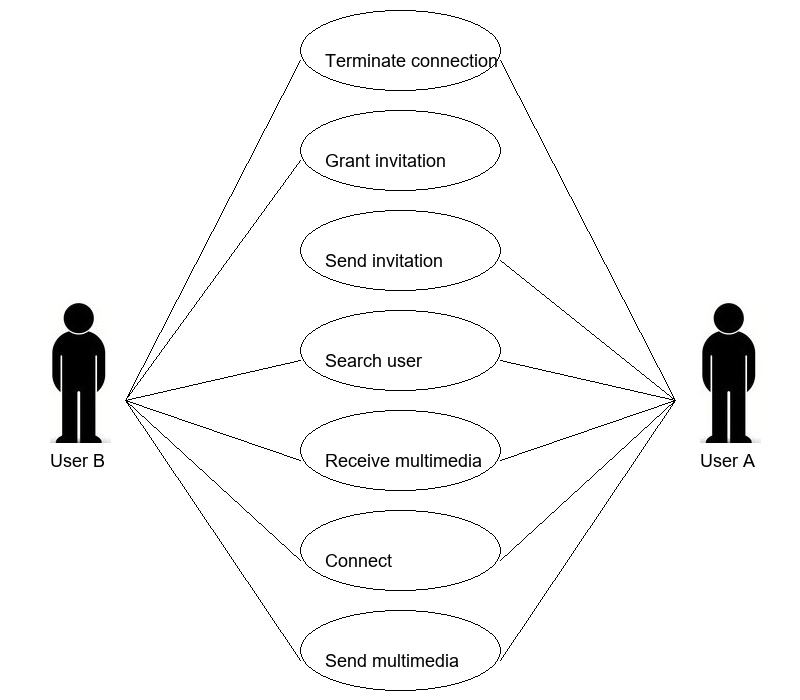
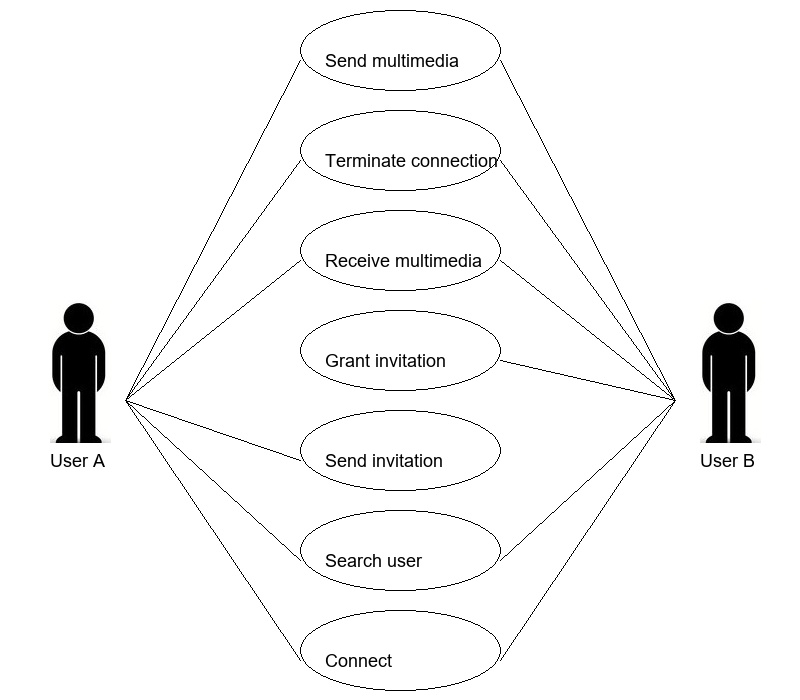
updated the algorithm

diff --git a/templates/index.html b/templates/index.html
@@ -117,7 +117,7 @@
             {% if show[5] == 1 %}
             <div class="block" id="diagram" >
                 <label class="main">UML Diagram</label><br><br>     
-                <img src="{{url_for('static', filename='pillow_imagedraw.jpg')}}" style="width:100%; height:700px;" > 
+                <img src="{{url_for('static', filename='pillow_imagedraw.jpg')}}" style="width:100%; height:900px;" > 
             </div>
             {% endif %}
             <br>
@@ -125,132 +125,6 @@
         </div>
     </div>
 </form>
-
-<!--
-    <div class="col" style="margin:80px;text-align:center;" >
-        <div class="col button"><a href="generate.html"><button >Generate</button></a></div>
-</div>
-
-
-    <div class="row " style="margin:20px;">
-        <div class="col-sm-2 block" >
-                <div class="col button"><button>Text tokenisation</button></div>
-        </div>
-        <div class="col-sm-10">
-            <div class="block">
-                <label for="Text tokenisation">Result after tokenisation</label><br><br>
-                <div class="col">
-                    <textarea name = "Text tokenisation" form = "id" rows = "10" ></textarea><br><br>
-                </div>                               
-                    
-            </div>
-        </div>
-    </div>
-
-    <div class="row " style="margin:20px;">
-        <div class="col-sm-2 block" >
-                <div class="col button"><button>Other steps</button></div>            
-        </div>
-        <div class="col-sm-10">
-            <div class="block">
-                <label for="steps">other steps</label><br><br>
-                <div class="col">
-                    <textarea name = "other steps" form = "id" rows = "10" placeholder="other steps" ></textarea><br><br>
-                </div>                               
-                    
-            </div>
-        </div>
-    </div>
-
-
-    <div class="row " style="margin:20px;">
-        
-    </div>
-
-    <div class="row " style="margin:20px;">
-        <div class="col-sm-2 block" >
-                <div class="col button"><button>Text tokenisation</button></div>
-        </div>
-        <div class="col-sm-10">
-            <div class="block">
-                <label for="Text tokenisation">Result after tokenisation</label><br><br>
-                <div class="col">
-                    <textarea name = "Text tokenisation" form = "id" rows = "10" ></textarea><br><br>
-                </div>                                            
-            </div>
-        </div>
-    </div>
-
-    <div class="row " style="margin:20px;">
-        <div class="col-sm-2 block" >
-                <div class="col button"><button>Pos Tagging</button></div>
-        </div>
-        <div class="col-sm-10">
-            <div class="block">
-                <label for="Pos Tagging">Afetr Pos tagging</label><br><br>
-                <div class="col">
-                    <textarea name = "Pos Tagging" form = "id" rows = "10" ></textarea><br><br>
-                </div>                               
-                    
-            </div>
-        </div>
-    </div>
-    <div class="row " style="margin:20px;">
-        <div class="col-sm-2 block" >
-                <div class="col button"><button>Grammer Check</button></div>
-        </div>
-        <div class="col-sm-10">
-            <div class="block">
-                <label for="Grammer Check">Afetr removing grammatical errors</label><br><br>
-                <div class="col">
-                    <textarea name = "Grammer Check" form = "id" rows = "10" ></textarea><br><br>
-                </div>                               
-                    
-            </div>
-        </div>
-    </div><div class="row " style="margin:20px;">
-        <div class="col-sm-2 block" >
-                <div class="col button"><button>Port Stemming</button></div>
-        </div>
-        <div class="col-sm-10">
-            <div class="block">
-                <label for="Port Stemming">Result after Port Stemming</label><br><br>
-                <div class="col">
-                    <textarea name = "Port Stemming" form = "id" rows = "10" ></textarea><br><br>
-                </div>                               
-                    
-            </div>
-        </div>
-    </div>
-
-    <div class="row " style="margin:20px;">
-        <div class="col-sm-2 block" >
-                <div class="col button"><button>Other steps</button></div>            
-        </div>
-        <div class="col-sm-10">
-            <div class="block">
-                <label for="steps">other steps</label><br><br>
-                <div class="col">
-                    <textarea name = "other steps" form = "id" rows = "10" ></textarea><br><br>
-                </div>                               
-                    
-            </div>
-        </div>
-    </div>
-
-    <div class="row " style="margin:20px;">
-        <div class="col-sm-2 block" >
-                <div class="col button"><button>Generated UML</button></div>            
-        </div>
-        <div class="col-sm-10">
-            <div class="block">
-                <label for="UML">UML</label><br><br>
-                <div class="col">
-                    <textarea name = "UML" form = "id"></textarea><br><br>
-                </div>                                                   
-            </div>
-        </div>
-    </div>-->
-    
+  
 </body>
 </html>

diff --git a/UseCase.py b/UseCase.py
@@ -109,15 +109,17 @@ def knowledgeExtract(doc):
                 elif pos_text[c].pos_ == 'VERB':
                     break
                 c += 1
-            
             for i in actors:
                 if i.title() not in use_case:
-                    use_case[i.title()] = []
-                    
+                    use_case[i.title()] = set()
             if not actors and not flag:
                 actors = prev_actors
-                
-            if pos_text[c].pos_ != 'VERB' or (pos_text[c].pos_ == 'VERB' and pos_text[c].lemma_.lower() in ['include', 'involve', 'consist', 'contain']):
+            if flag:
+                prev_actors = actors
+            else:
+                prev_actors = prev_actors.union(actors)
+            flag = False
+            if c >= len(pos_text) or pos_text[c].lemma_.lower() in ['include', 'involve', 'consist', 'contain', 'be']:
                 c += 1
                 continue
             v = pos_text[c]
@@ -129,23 +131,19 @@ def knowledgeExtract(doc):
                 if pos_text[c].dep_ == 'dobj':
                     u += " " + pos_text[c].lemma_
                 c += 1
-            
             for i in actors:
-                use_case[i.title()].append(u)
-            
-            if flag:
-                prev_actors = actors
-            else:
-                prev_actors = prev_actors.union(actors)
-                
-            flag = False
-    
+                use_case[i.title()].add(u)
+    x = list(use_case.keys())
+    for i in x:
+        if not use_case[i]:
+            del use_case[i]
     return use_case
                 
 
 def createUML(doc):
+
     use_case = knowledgeExtract(doc)
-    fontsize = 18
+    fontsize = 15
     font = ImageFont.truetype("arial.ttf", fontsize)
     n = len(use_case.keys())
     cases = set()
@@ -167,15 +165,15 @@ def createUML(doc):
         draw.text((700-(50*(i%2)), div2*i+div2//2+100),actors[n-half+i],(0,0,0),font=font)
     x = 700//len(cases)
     for i in range(len(cases)): 
-        draw.ellipse((300, x*i+10, 500, x*(i+1)-10),fill=None, outline=(0, 0, 0))
-        draw.text((325, x*i+50),cases[i].capitalize(),(0,0,0),font=font)
+        draw.ellipse((300, x*i+5, 500, x*(i+1)-5),fill=None, outline=(0, 0, 0))
+        draw.text((325, x*(i+0.5)-10),cases[i].capitalize(),(0,0,0),font=font)
         for j in range(n-half):
             if cases[i] in use_case[actors[j]]:
-                shape = [(125+(50*(j%2)), div1*j+div1//2+50),(300,x*(i+0.5)+10)]
+                shape = [(125+(50*(j%2)), div1*j+div1//2+50),(300,x*(i+0.5))]
                 draw.line(shape, fill =(0,0,0), width = 1)
         for j in range(half):
             if cases[i] in use_case[actors[n-half+j]]:
-                shape = [(675-(50*(j%2)), div2*j+div2//2+50),(500,x*(i+0.5)+10)]
+                shape = [(675-(50*(j%2)), div2*j+div2//2+50),(500,x*(i+0.5))]
                 draw.line(shape, fill =(0,0,0), width = 1)
     im.save('static\pillow_imagedraw.jpg',quality=95)
 
